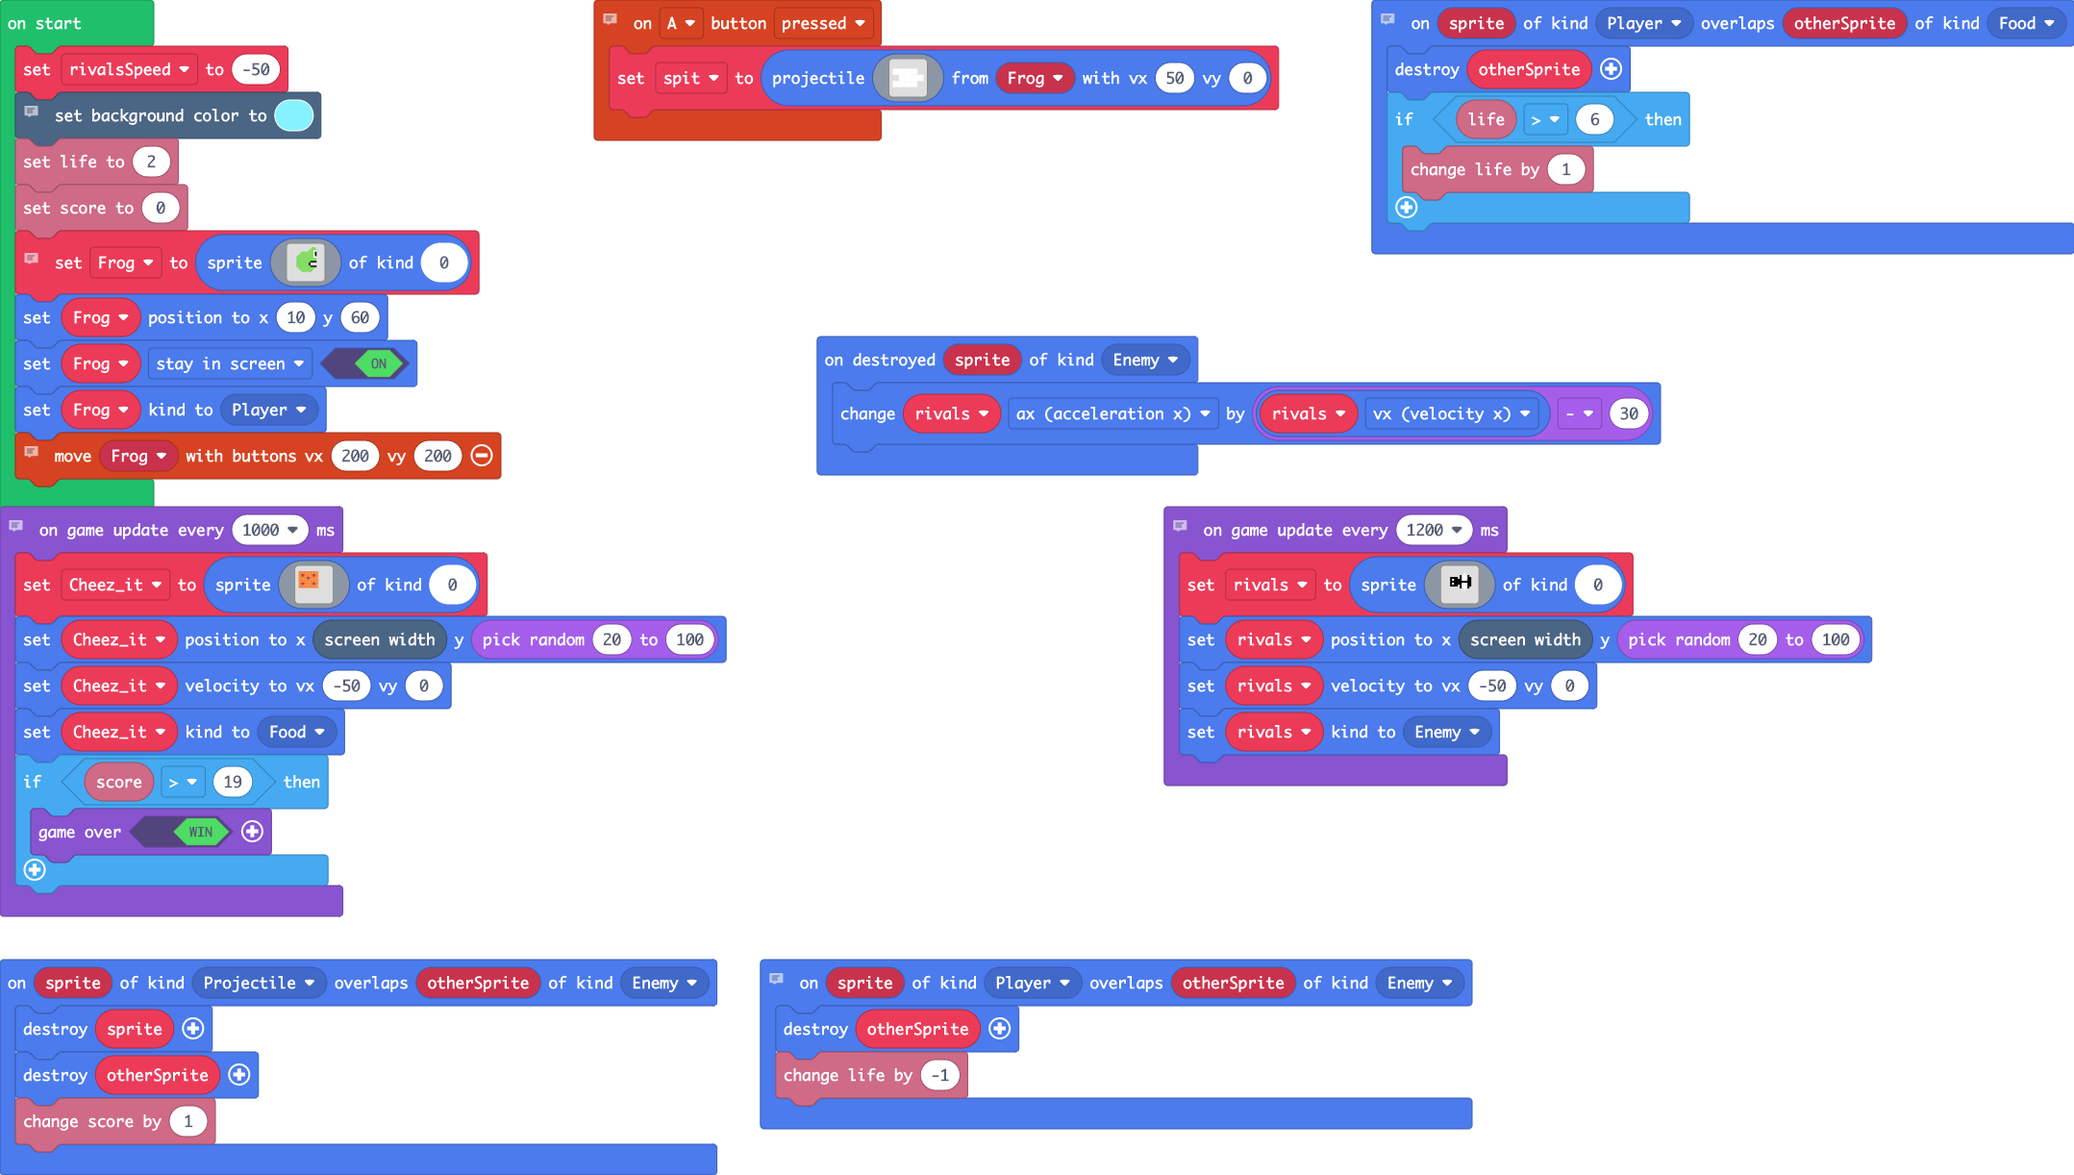
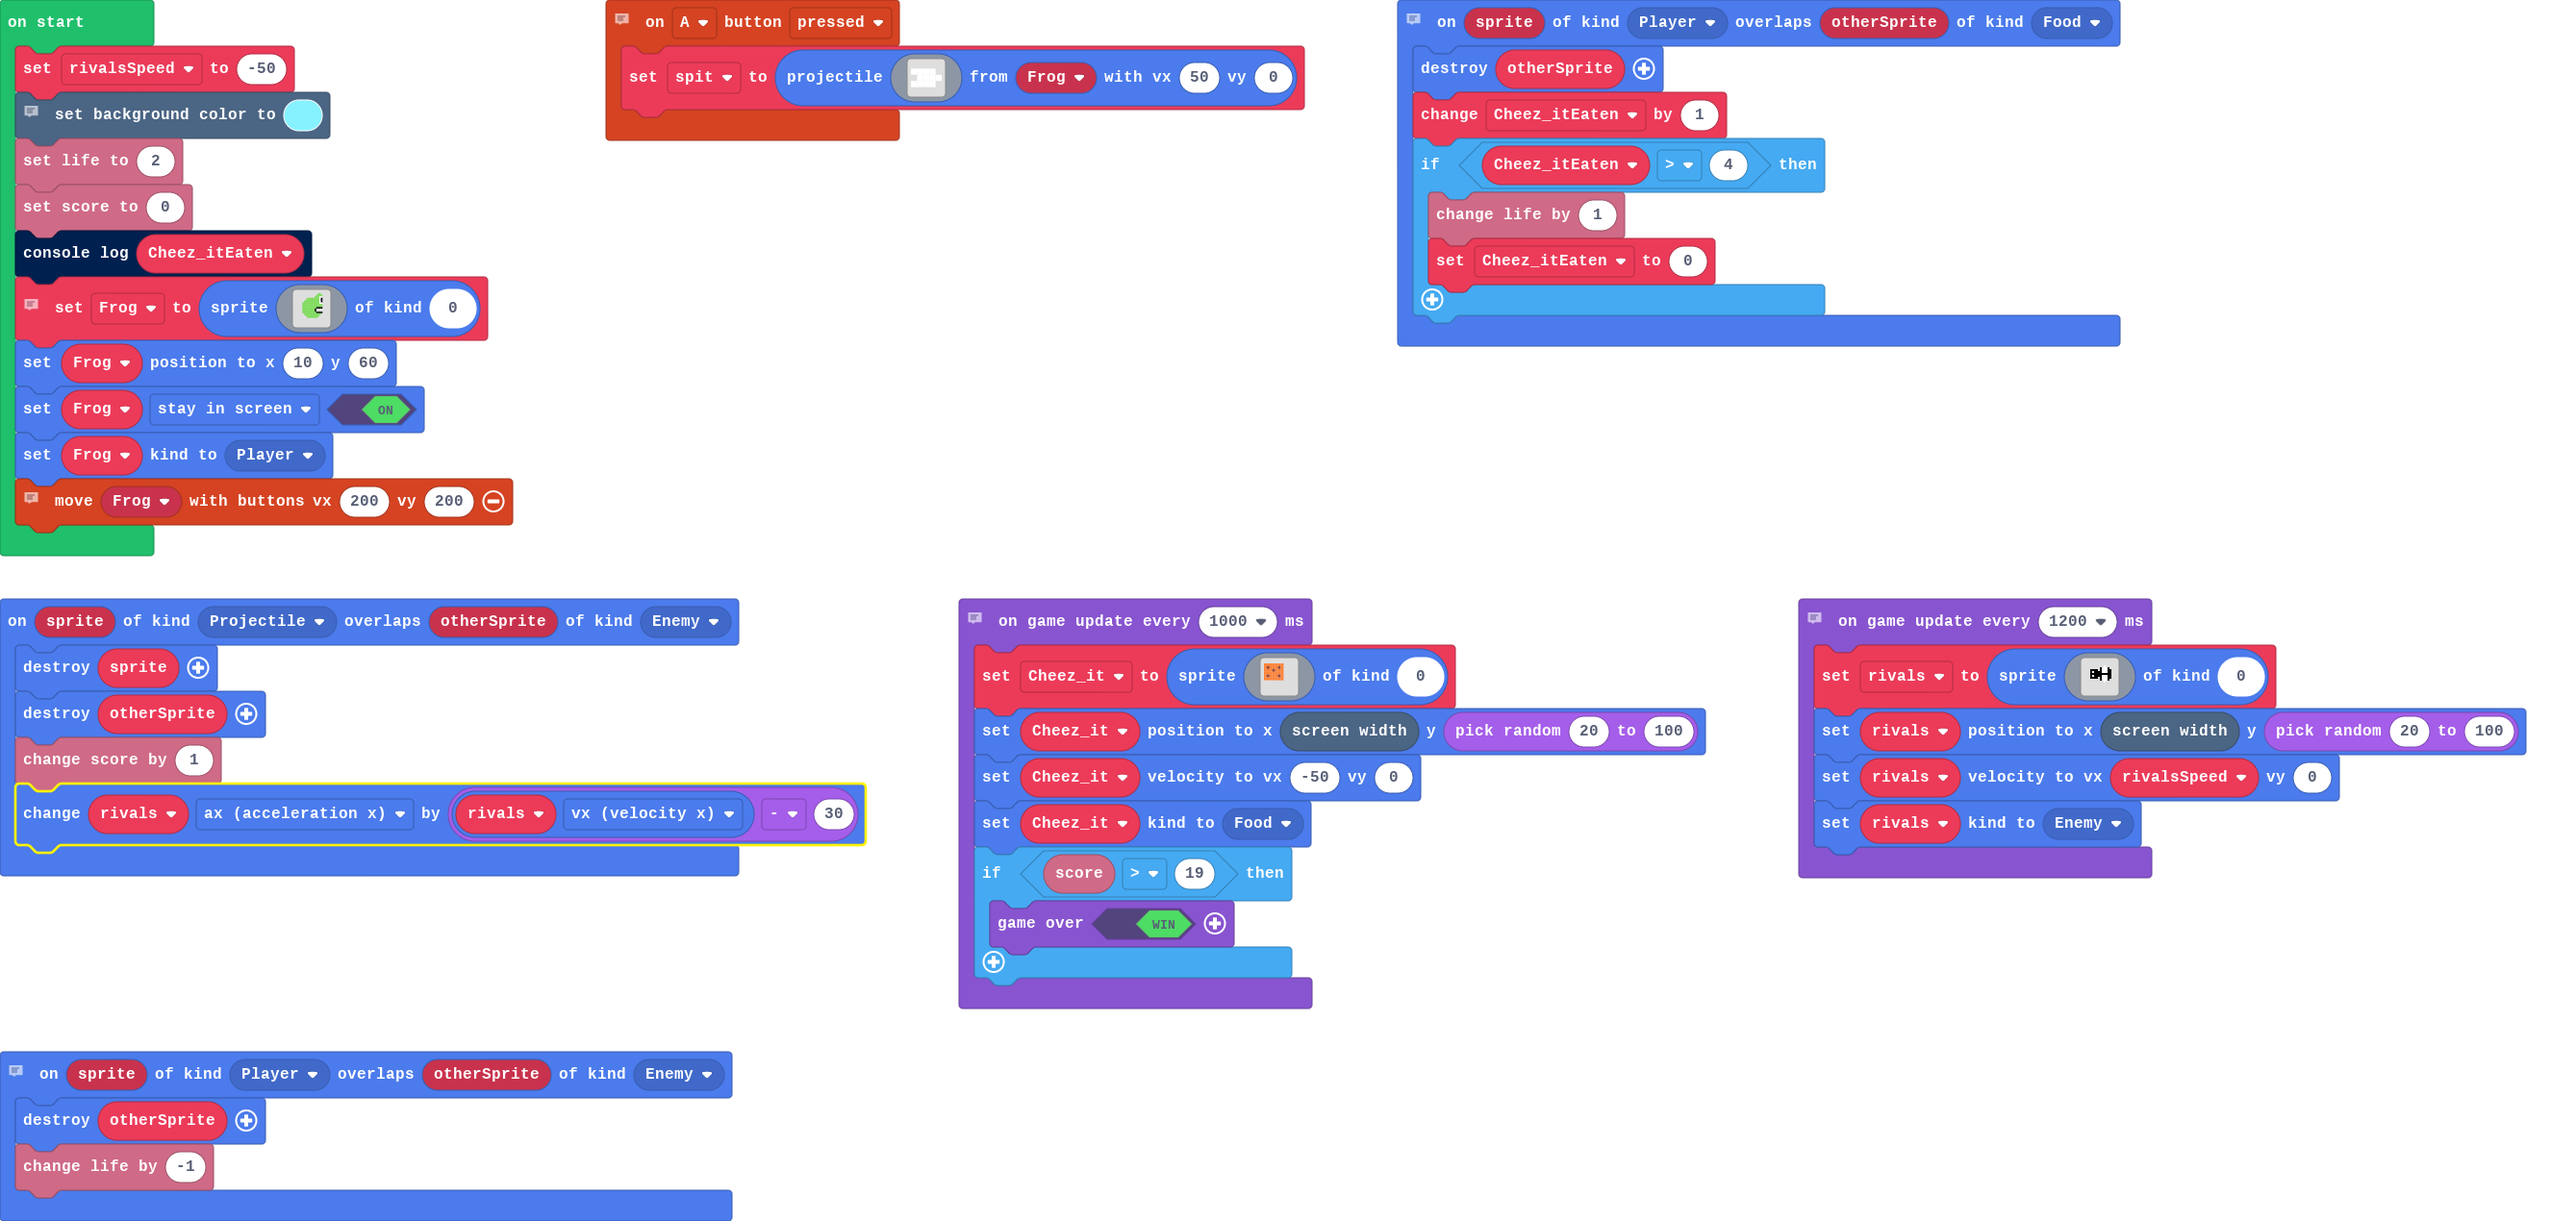
Update pxt.json, main.blocks, main.ts, main.py

diff --git a/main.ts b/main.ts
@@ -14,27 +14,29 @@ sprites.onOverlap(SpriteKind.Player, SpriteKind.Food, function on_on_overlap(spr
     
     otherSprite.destroy()
     Cheez_itEaten += 1
-    if (Cheez_itEaten/5 > 6) {
+    if (Cheez_itEaten > 4) {
         info.changeLifeBy(1)
+        Cheez_itEaten = 0
     }
     
 })
 sprites.onOverlap(SpriteKind.Projectile, SpriteKind.Enemy, function on_on_overlap2(sprite: Sprite, otherSprite: Sprite) {
+    
     sprite.destroy()
     otherSprite.destroy()
     info.changeScoreBy(1)
-    rivals.ax += rivals.vx - 30
+    rivalsSpeed += -30
 })
 //  lose life
 sprites.onOverlap(SpriteKind.Player, SpriteKind.Enemy, function on_on_overlap3(sprite: Sprite, otherSprite: Sprite) {
     otherSprite.destroy()
     info.changeLifeBy(-1)
 })
-let Cheez_itEaten = 0
 let Cheez_it : Sprite = null
 let rivals : Sprite = null
 let spit : Sprite = null
 let Frog : Sprite = null
+let Cheez_itEaten = 0
 let rivalsSpeed = -50
 //  setup
 scene.setBackgroundColor(9)
@@ -43,26 +45,26 @@ info.setScore(0)
 console.log(Cheez_itEaten)
 //  Frog
 Frog = sprites.create(img`
-        . . . . . . . . . . . . . . 7 7 . . . . 
-            . . . . . . . . . . . . . 7 7 7 7 . . . 
-            . . . . . . . . . . . . 7 7 7 1 1 . . . 
-            . . . . . . . 7 7 7 7 7 7 7 7 1 f . . . 
-            . . . . . . 7 7 7 7 7 7 7 7 7 1 f . . . 
-            . . . . . 7 7 7 7 7 7 7 7 7 7 1 f . . . 
-            . . . . 7 7 7 7 7 7 7 7 7 7 7 1 1 . . . 
-            . . . . 7 7 7 7 7 7 7 7 7 7 7 7 7 . . . 
-            . . . . 7 7 7 7 7 7 7 7 7 7 7 7 7 . . . 
-            . . . . 7 7 7 7 7 7 7 7 7 f f f f . . . 
-            . . . . 7 7 7 7 7 7 7 7 f . . . . . . . 
-            . . . . 7 7 7 7 7 7 7 7 f . . . . . . . 
-            . . . . 7 7 7 7 7 7 7 7 7 f f f f . . . 
-            . . . . . 7 7 7 7 7 7 7 7 7 7 7 . . . . 
-            . . . . . . 7 7 7 7 7 7 7 7 7 . . . . . 
-            . . . . . . . 7 7 7 7 7 7 7 . . . . . . 
-            . . . . . . . . . . . . . . . . . . . . 
-            . . . . . . . . . . . . . . . . . . . . 
-            . . . . . . . . . . . . . . . . . . . . 
-            . . . . . . . . . . . . . . . . . . . .
+        ..............77....
+            .............7777...
+            ............77711...
+            .......777777771f...
+            ......7777777771f...
+            .....77777777771f...
+            ....7777777777711...
+            ....7777777777777...
+            ....7777777777777...
+            ....777777777ffff...
+            ....77777777f.......
+            ....77777777f.......
+            ....777777777ffff...
+            .....77777777777....
+            ......777777777.....
+            .......7777777......
+            ....................
+            ....................
+            ....................
+            ....................
     `, 0)
 Frog.setPosition(10, 60)
 Frog.setFlag(SpriteFlag.StayInScreen, true)

diff --git a/main.py b/main.py
@@ -20,16 +20,17 @@ def on_on_overlap(sprite, otherSprite):
     global Cheez_itEaten
     otherSprite.destroy()
     Cheez_itEaten += 1
-    if info.life() > 6:
+    if Cheez_itEaten > 4:
         info.change_life_by(1)
+        Cheez_itEaten = 0
 sprites.on_overlap(SpriteKind.player, SpriteKind.food, on_on_overlap)
 
-
 def on_on_overlap2(sprite, otherSprite):
+    global rivalsSpeed
     sprite.destroy()
     otherSprite.destroy()
     info.change_score_by(1)
-    rivals.ax += rivals.vx - 30
+    rivalsSpeed += -30
 sprites.on_overlap(SpriteKind.projectile, SpriteKind.enemy, on_on_overlap2)
 
 # lose life
@@ -38,11 +39,12 @@ def on_on_overlap3(sprite, otherSprite):
     otherSprite.destroy()
     info.change_life_by(-1)
 sprites.on_overlap(SpriteKind.player, SpriteKind.enemy, on_on_overlap3)
-Cheez_itEaten = 0
+
 Cheez_it: Sprite = None
 rivals: Sprite = None
 spit: Sprite = None
 Frog: Sprite = None
+Cheez_itEaten = 0
 rivalsSpeed = -50
 # setup
 scene.set_background_color(9)
@@ -51,26 +53,26 @@ info.set_score(0)
 print(Cheez_itEaten)
 # Frog
 Frog = sprites.create(img("""
-        . . . . . . . . . . . . . . 7 7 . . . . 
-            . . . . . . . . . . . . . 7 7 7 7 . . . 
-            . . . . . . . . . . . . 7 7 7 1 1 . . . 
-            . . . . . . . 7 7 7 7 7 7 7 7 1 f . . . 
-            . . . . . . 7 7 7 7 7 7 7 7 7 1 f . . . 
-            . . . . . 7 7 7 7 7 7 7 7 7 7 1 f . . . 
-            . . . . 7 7 7 7 7 7 7 7 7 7 7 1 1 . . . 
-            . . . . 7 7 7 7 7 7 7 7 7 7 7 7 7 . . . 
-            . . . . 7 7 7 7 7 7 7 7 7 7 7 7 7 . . . 
-            . . . . 7 7 7 7 7 7 7 7 7 f f f f . . . 
-            . . . . 7 7 7 7 7 7 7 7 f . . . . . . . 
-            . . . . 7 7 7 7 7 7 7 7 f . . . . . . . 
-            . . . . 7 7 7 7 7 7 7 7 7 f f f f . . . 
-            . . . . . 7 7 7 7 7 7 7 7 7 7 7 . . . . 
-            . . . . . . 7 7 7 7 7 7 7 7 7 . . . . . 
-            . . . . . . . 7 7 7 7 7 7 7 . . . . . . 
-            . . . . . . . . . . . . . . . . . . . . 
-            . . . . . . . . . . . . . . . . . . . . 
-            . . . . . . . . . . . . . . . . . . . . 
-            . . . . . . . . . . . . . . . . . . . .
+        ..............77....
+            .............7777...
+            ............77711...
+            .......777777771f...
+            ......7777777771f...
+            .....77777777771f...
+            ....7777777777711...
+            ....7777777777777...
+            ....7777777777777...
+            ....777777777ffff...
+            ....77777777f.......
+            ....77777777f.......
+            ....777777777ffff...
+            .....77777777777....
+            ......777777777.....
+            .......7777777......
+            ....................
+            ....................
+            ....................
+            ....................
     """),
     0)
 Frog.set_position(10, 60)
